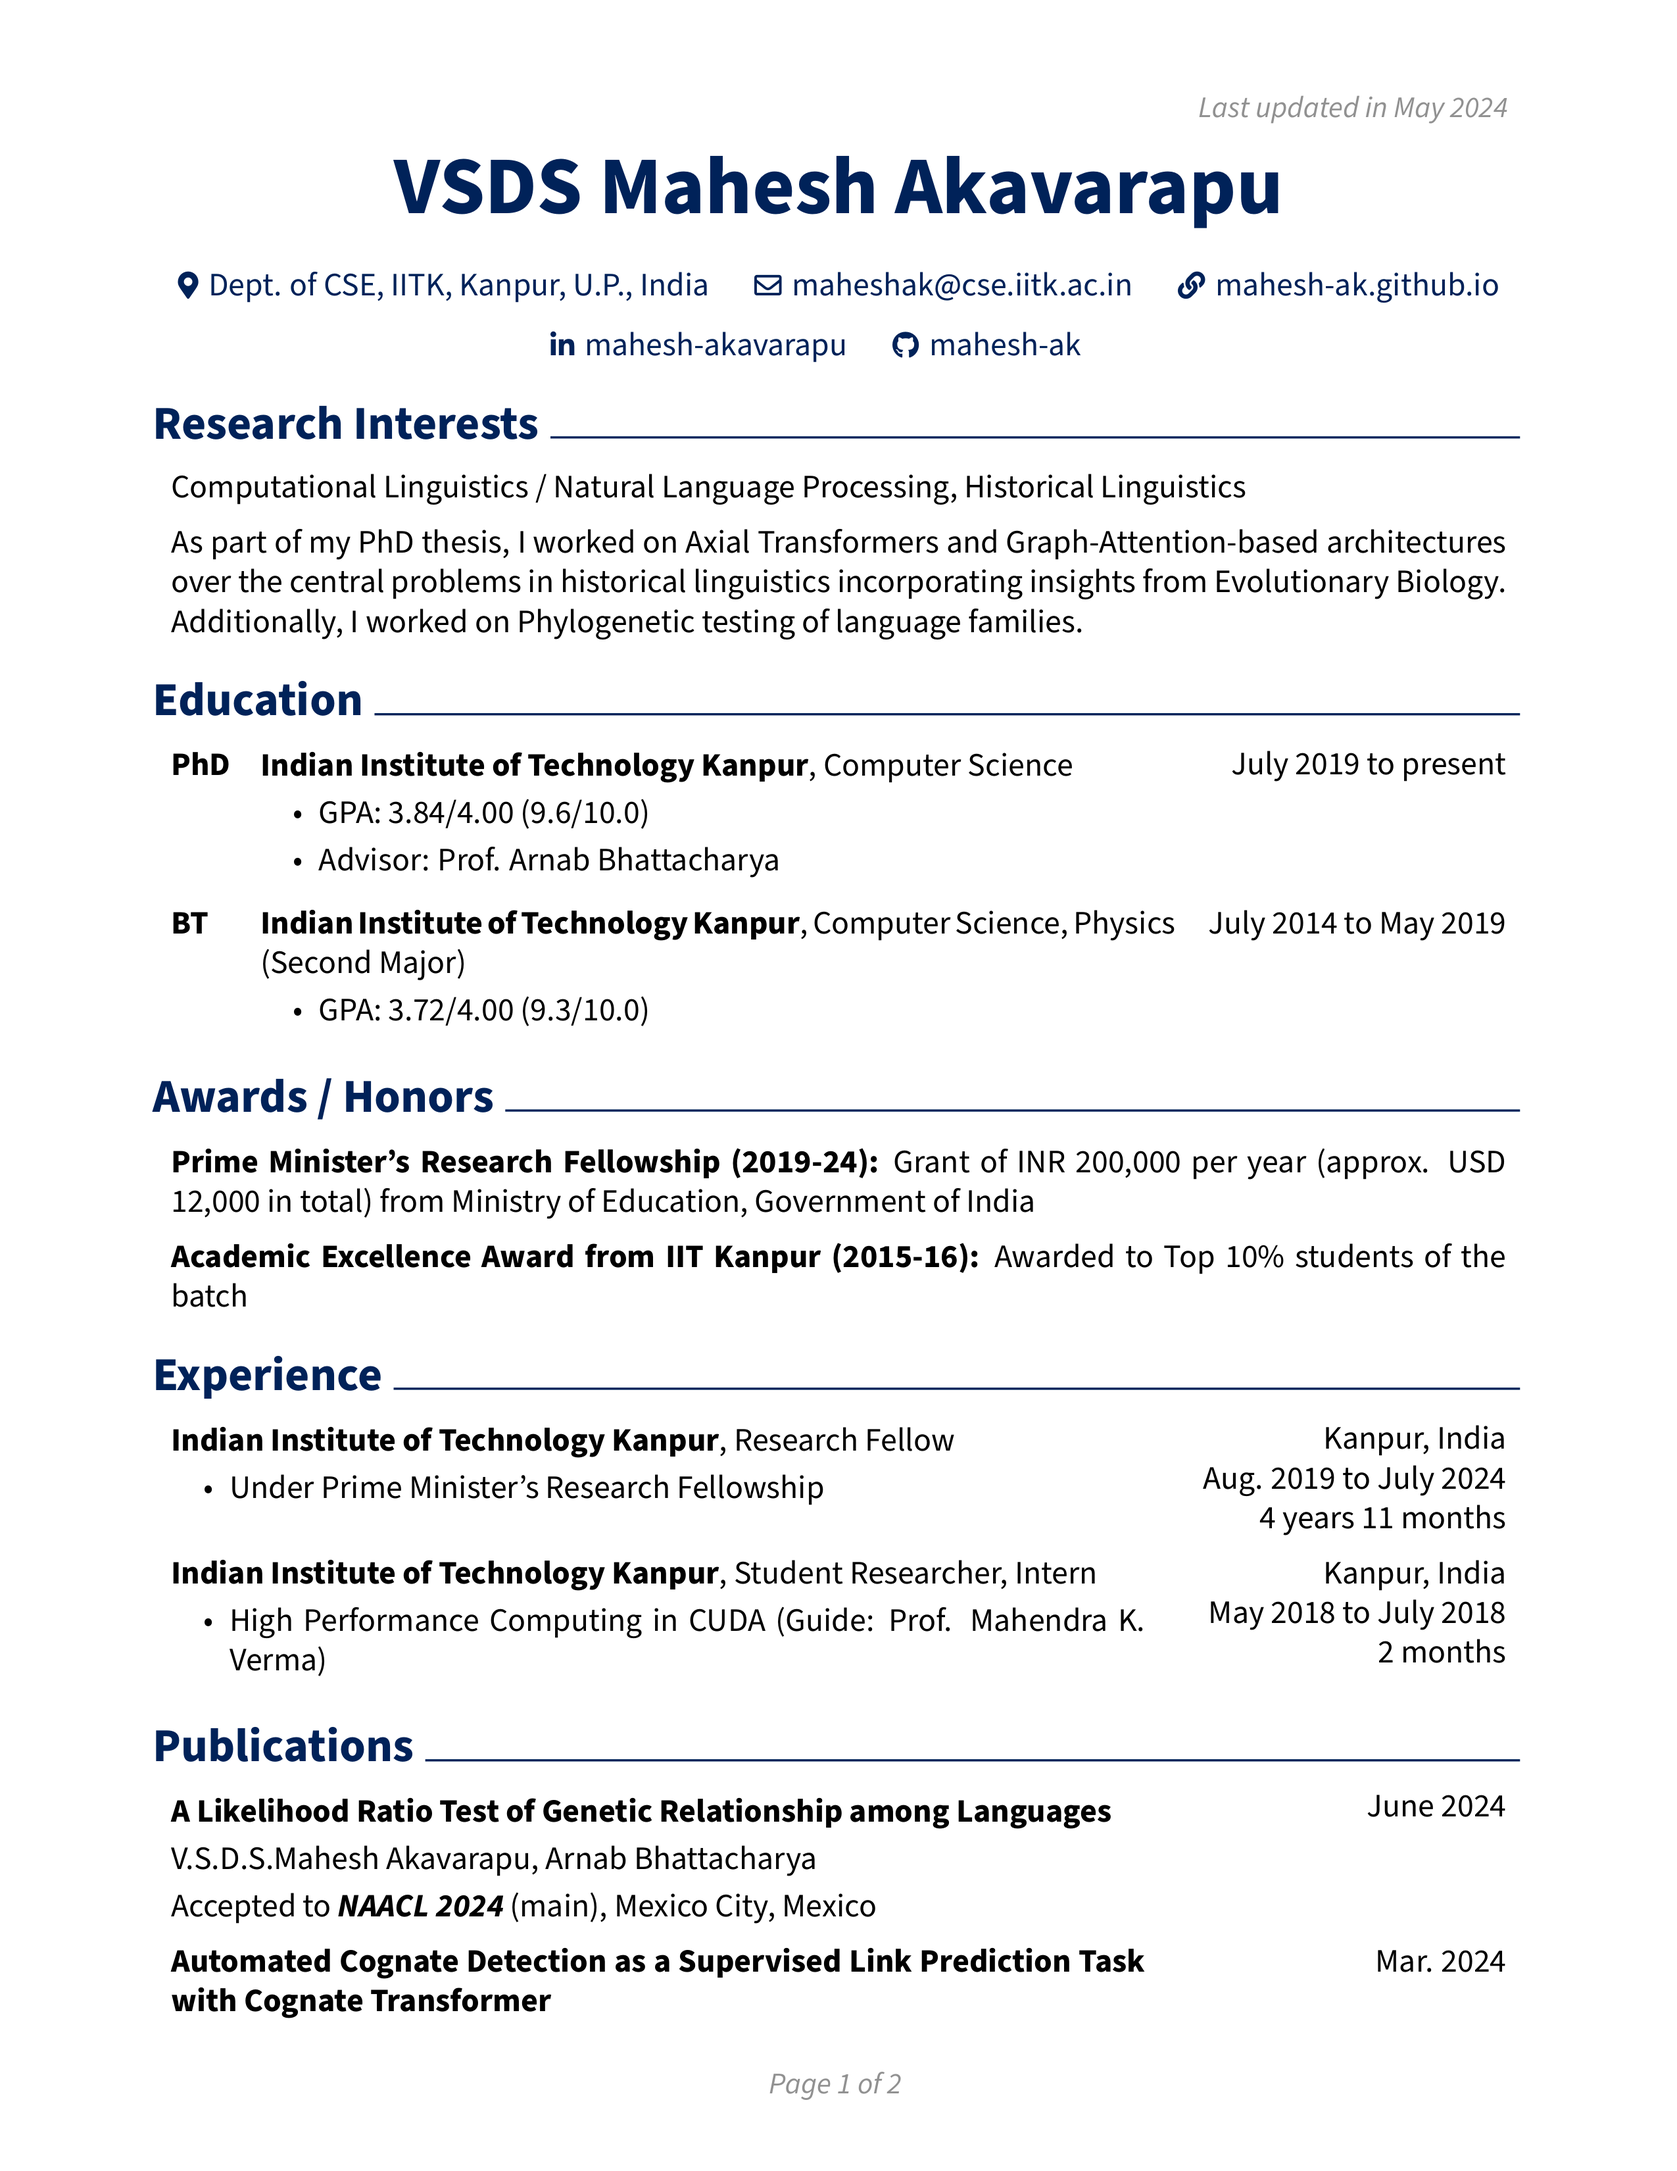
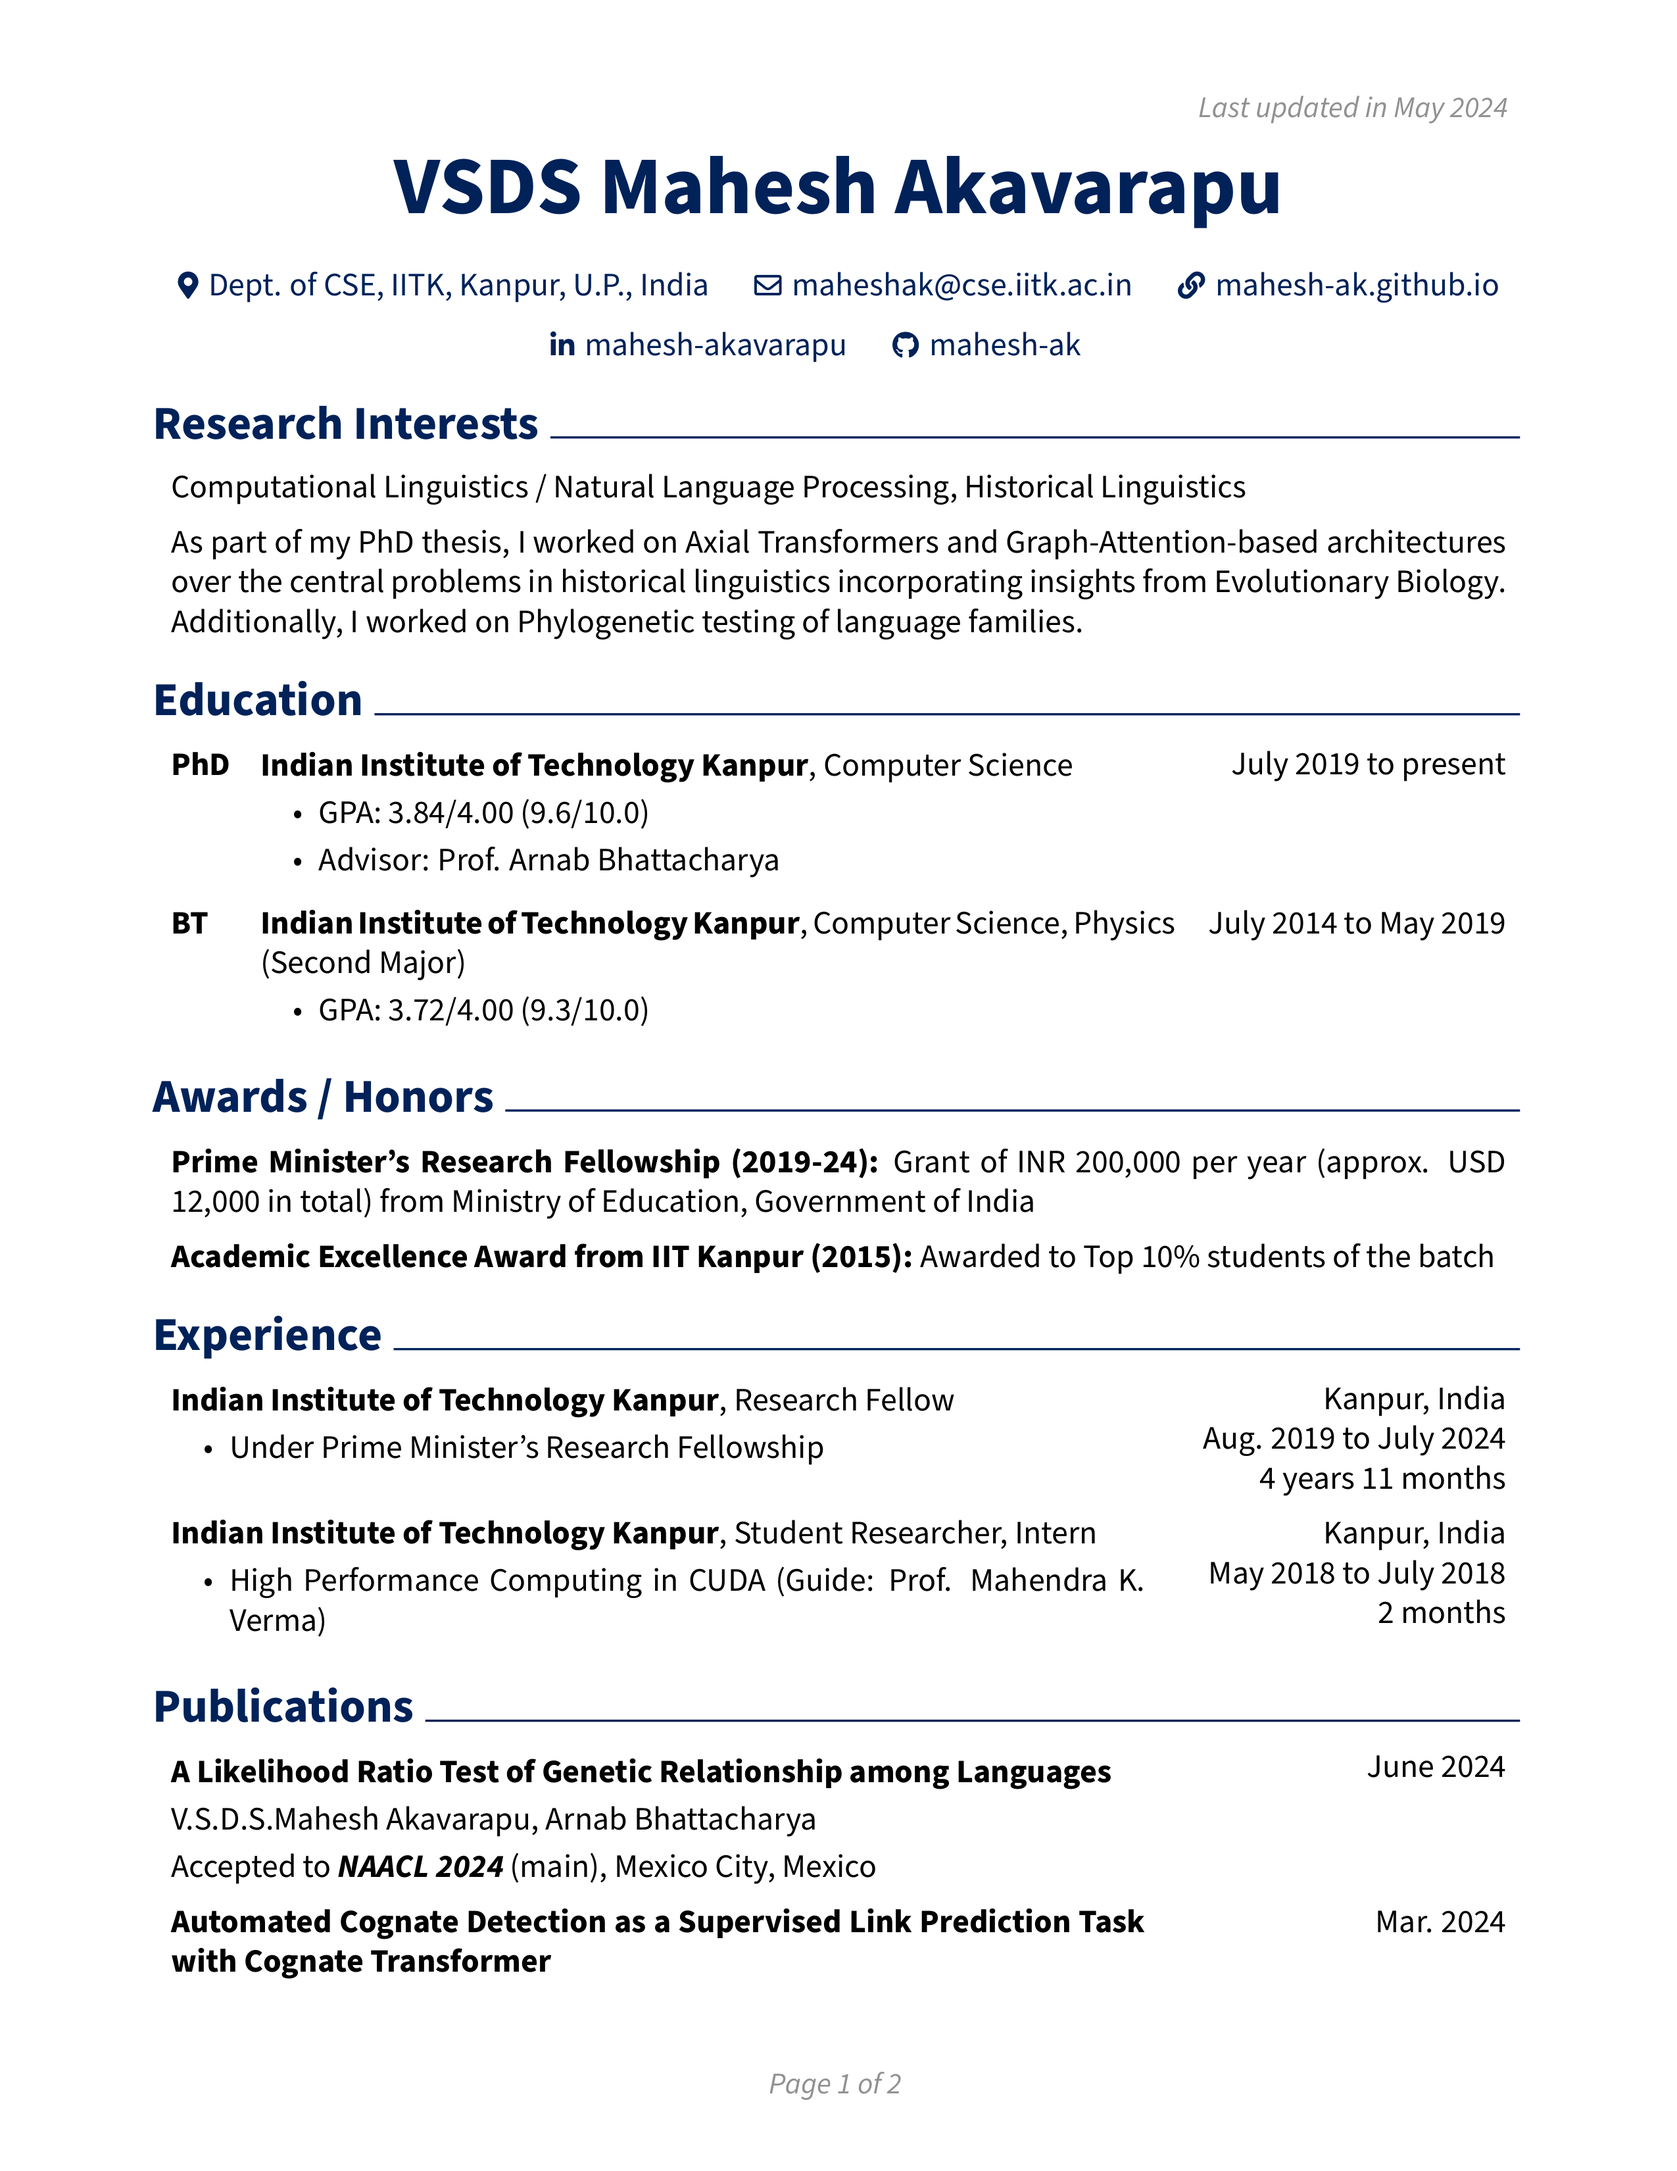
Update: minor correction in CV

Changed region(s): [[0.0929, 0.5618, 0.8984, 0.9364], [0.7125, 0.6242, 0.8984, 0.8427], [0.8055, 0.8739, 0.8984, 0.9052]]

diff --git a/assets/pdf/CV/rendercv_output/VSDS_Mahesh_Akavarapu_CV_PASTETOGRAMMARLY.html b/assets/pdf/CV/rendercv_output/VSDS_Mahesh_Akavarapu_CV_PASTETOGRAMMARLY.html
@@ -24,7 +24,7 @@
 <h1>Awards / Honors</h1>
 <ul>
 <li>Prime Minister's Research Fellowship (2019-24): Grant of INR 200,000 per year (approx. USD 12,000 in total) from Ministry of Education, Government of India</li>
-<li>Academic Excellence Award from IIT Kanpur (2015-16): Awarded to Top 10% students of the batch</li>
+<li>Academic Excellence Award from IIT Kanpur (2015): Awarded to Top 10% students of the batch</li>
 </ul>
 <h1>Experience</h1>
 <h2>Indian Institute of Technology Kanpur, Research Fellow</h2>

diff --git a/assets/pdf/CV/rendercv_output/VSDS_Mahesh_Akavarapu_CV.tex b/assets/pdf/CV/rendercv_output/VSDS_Mahesh_Akavarapu_CV.tex
@@ -248,7 +248,7 @@
         \vspace{0.2 cm}
 
         \begin{onecolentry}
-            \textbf{Academic Excellence Award from IIT Kanpur (2015-16):} Awarded to Top 10\% students of the batch
+            \textbf{Academic Excellence Award from IIT Kanpur (2015):} Awarded to Top 10\% students of the batch
         \end{onecolentry}
 
 

diff --git a/assets/pdf/CV/rendercv_output/VSDS_Mahesh_Akavarapu_CV.md b/assets/pdf/CV/rendercv_output/VSDS_Mahesh_Akavarapu_CV.md
@@ -29,7 +29,7 @@ As part of my PhD thesis, I worked on Axial Transformers and Graph-Attention-bas
 # Awards / Honors
 
 - Prime Minister's Research Fellowship (2019-24): Grant of INR 200,000 per year (approx. USD 12,000 in total) from Ministry of Education, Government of India
-- Academic Excellence Award from IIT Kanpur (2015-16): Awarded to Top 10% students of the batch
+- Academic Excellence Award from IIT Kanpur (2015): Awarded to Top 10% students of the batch
 # Experience
 
 ## Indian Institute of Technology Kanpur, Research Fellow
